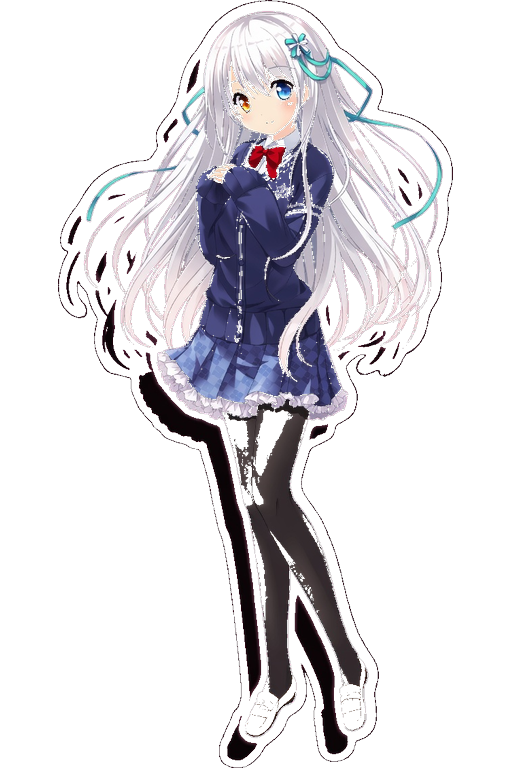
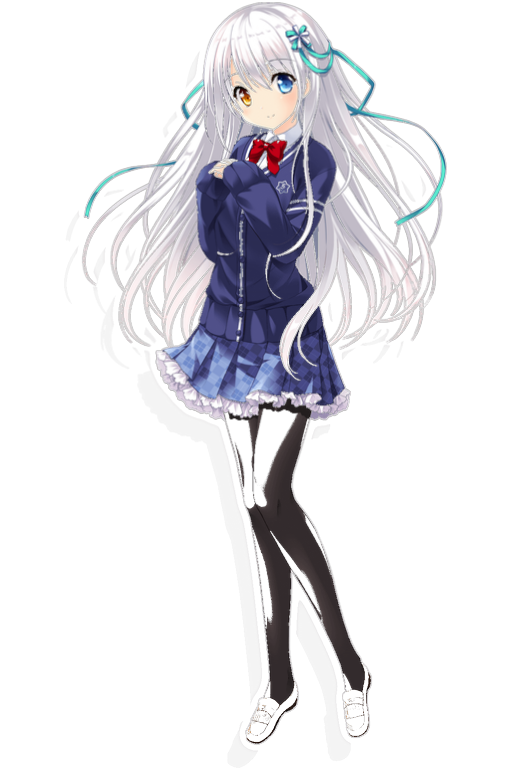
feat: Enhance idle and breathe standing frame animation sequences

Changed region(s): [[0.125, 0.0, 0.9062, 1.0]]

diff --git a/src/character/anim-manifest.js b/src/character/anim-manifest.js
@@ -1,4 +1,4 @@
-/** Auto-generated by scripts/build_animations.py — do not edit by hand */
+/** Auto-generated — idle/breathe via scripts/build_idle_stand.py */
 export const ANIM_MANIFEST = {
   "version": 1,
   "canvas": [
@@ -12,9 +12,13 @@ export const ANIM_MANIFEST = {
         "./assets/animations/idle/00.png",
         "./assets/animations/idle/01.png",
         "./assets/animations/idle/02.png",
-        "./assets/animations/idle/03.png"
+        "./assets/animations/idle/03.png",
+        "./assets/animations/idle/04.png",
+        "./assets/animations/idle/05.png",
+        "./assets/animations/idle/06.png",
+        "./assets/animations/idle/07.png"
       ],
-      "fps": 3,
+      "fps": 5,
       "loop": true,
       "duration": null,
       "holdLast": false
@@ -24,11 +28,13 @@ export const ANIM_MANIFEST = {
         "./assets/animations/breathe/00.png",
         "./assets/animations/breathe/01.png",
         "./assets/animations/breathe/02.png",
-        "./assets/animations/breathe/03.png"
+        "./assets/animations/breathe/03.png",
+        "./assets/animations/breathe/04.png",
+        "./assets/animations/breathe/05.png"
       ],
-      "fps": 2.5,
+      "fps": 4,
       "loop": true,
-      "duration": 3600,
+      "duration": 4500,
       "holdLast": false
     },
     "sway": {

diff --git a/scripts/build_idle_stand.py b/scripts/build_idle_stand.py
@@ -1,0 +1,288 @@
+"""
+Build anti-flicker default standing (idle) frame animation for Saya.
+
+Why procedural (not multi-source cutouts):
+  The previous idle mixed base / idle_peak / soft art with large silhouette
+  jumps (mean channel diff ~226). Hard-cut swaps then looked like flicker
+  and limb/hair pop (穿模).
+
+Approach:
+  - Single clean sprite at native size: assets/animations/default.png
+    (same scale/feet as other actions → no size pop when returning to idle)
+  - Continuous warp: feet locked, torso breathes, hair secondary sway
+  - Frame 0 is a bit-exact copy of default.png for seamless action→idle
+  - Integer harmonics only so last→first loop closes
+  - Writes idle/ + breathe/ and patches manifest + anim-manifest.js
+"""
+
+from __future__ import annotations
+
+import json
+import math
+import shutil
+from pathlib import Path
+
+import numpy as np
+from PIL import Image
+
+ROOT = Path(__file__).resolve().parents[1]
+OUT = ROOT / "assets" / "animations"
+DEFAULT = OUT / "default.png"
+CANVAS = (512, 768)
+
+# Subtle desktop-pet motion (px at full strength). Keep small to avoid
+# hair-tip clipping at canvas top and resampling sparkle on fine strands.
+BREATH_PX = 1.8
+SWAY_PX = 1.4
+HAIR_PX = 1.5
+
+
+def sample_bilinear(arr: np.ndarray, ys: np.ndarray, xs: np.ndarray) -> np.ndarray:
+    h, w = arr.shape[:2]
+    valid = (ys >= 0) & (ys <= h - 1) & (xs >= 0) & (xs <= w - 1)
+
+    y0 = np.floor(ys).astype(np.int32)
+    x0 = np.floor(xs).astype(np.int32)
+    y1 = y0 + 1
+    x1 = x0 + 1
+
+    y0c = np.clip(y0, 0, h - 1)
+    y1c = np.clip(y1, 0, h - 1)
+    x0c = np.clip(x0, 0, w - 1)
+    x1c = np.clip(x1, 0, w - 1)
+
+    wy = (ys - y0)[..., None]
+    wx = (xs - x0)[..., None]
+    w00 = (1 - wy) * (1 - wx)
+    w01 = (1 - wy) * wx
+    w10 = wy * (1 - wx)
+    w11 = wy * wx
+
+    out = (
+        arr[y0c, x0c] * w00
+        + arr[y0c, x1c] * w01
+        + arr[y1c, x0c] * w10
+        + arr[y1c, x1c] * w11
+    )
+    out[~valid] = 0
+    return out
+
+
+def content_bbox(arr: np.ndarray, thr: int = 10) -> tuple[int, int, int, int]:
+    a = arr[:, :, 3]
+    ys, xs = np.where(a > thr)
+    if len(xs) == 0:
+        h, w = a.shape
+        return 0, 0, w - 1, h - 1
+    return int(xs.min()), int(ys.min()), int(xs.max()), int(ys.max())
+
+
+def warp_stand(
+    arr: np.ndarray,
+    *,
+    breath: float,
+    sway: float,
+    hair: float,
+) -> np.ndarray:
+    """
+    breath: -1..1  + = inhale (shoulders rise, slight chest widen)
+    sway:   -1..1  lean shear from feet
+    hair:   -1..1  extra upper-strand drift
+    Feet stay planted.
+    """
+    h, w = arr.shape[:2]
+    x0, y0, x1, y1 = content_bbox(arr)
+    foot_y = float(y1)
+    cx = 0.5 * (x0 + x1)
+
+    yy, xx = np.mgrid[0:h, 0:w].astype(np.float64)
+    height = max(1.0, foot_y - y0)
+    t = np.clip((foot_y - yy) / height, 0.0, 1.2)
+
+    foot_lock = np.clip((t - 0.05) / 0.10, 0.0, 1.0)
+    torso = np.clip((t - 0.22) / 0.48, 0.0, 1.0)
+    torso = torso * torso
+    hair_w = np.clip((t - 0.55) / 0.40, 0.0, 1.0)
+    hair_w = hair_w * hair_w
+
+    # Vertical breathe. Base art's hair tips already touch y=0, so favor
+    # gentle lift; slight tip clip is preferable to asymmetric inhale/exhale.
+    dy = breath * BREATH_PX * torso * foot_lock
+
+    expand = breath * 0.006 * torso * foot_lock
+    src_x_body = cx + (xx - cx) / (1.0 + expand + 1e-6)
+
+    dx_sway = sway * SWAY_PX * t * foot_lock
+    dx_hair = hair * HAIR_PX * hair_w * foot_lock
+
+    src_x = src_x_body - dx_sway - dx_hair
+    src_y = yy + dy
+
+    out = sample_bilinear(arr, src_y, src_x)
+    out[out[:, :, 3] < 1.5] = 0
+    return out
+
+
+def to_png(arr: np.ndarray) -> Image.Image:
+    arr = np.clip(np.nan_to_num(arr, nan=0.0), 0, 255).astype(np.uint8)
+    return Image.fromarray(arr, "RGBA")
+
+
+def make_cycle(
+    base: np.ndarray,
+    n: int,
+    *,
+    breath_amp: float,
+    sway_amp: float,
+    hair_amp: float,
+) -> list[Image.Image]:
+    """
+    Seamless loop. Frame 0 is bit-exact base (all drives zero at θ=0).
+
+    Breath is *exhale-only* (always ≤ 0):
+      breath = amp * (cosθ - 1) / 2   →  0 → -amp → 0
+    The base sprite's hair already touches y=0; lifting on inhale would clip
+    tips and make the cycle lopsided. Settling the torso down then returning
+    reads as a calm breathe while feet stay planted.
+
+      sway ~ sinθ (+ tiny sin2θ)
+      hair ~ sin2θ   (secondary, period-closes)
+    """
+    frames: list[Image.Image] = []
+    for i in range(n):
+        if i == 0:
+            # Exact neutral — matches other actions' default stand
+            frames.append(to_png(base.copy()))
+            continue
+        ang = 2.0 * math.pi * i / n
+        # 0 at i=0 and i=n, peak exhale (-amp) at i=n/2
+        breath = breath_amp * (math.cos(ang) - 1.0) * 0.5
+        sway = sway_amp * (0.88 * math.sin(ang) + 0.12 * math.sin(2 * ang))
+        hair = hair_amp * math.sin(2.0 * ang)
+        frames.append(to_png(warp_stand(base, breath=breath, sway=sway, hair=hair)))
+    return frames
+
+
+def save_seq(name: str, frames: list[Image.Image]) -> list[str]:
+    d = OUT / name
+    if d.exists():
+        shutil.rmtree(d)
+    d.mkdir(parents=True, exist_ok=True)
+    paths: list[str] = []
+    for i, im in enumerate(frames):
+        p = d / f"{i:02d}.png"
+        im.save(p, "PNG", optimize=True)
+        paths.append(f"./assets/animations/{name}/{i:02d}.png")
+    print(f"  {name}: {len(frames)} frames → {d}")
+    return paths
+
+
+def patch_manifest(idle_paths: list[str], breathe_paths: list[str]) -> None:
+    man_path = OUT / "manifest.json"
+    data = json.loads(man_path.read_text(encoding="utf-8"))
+    data["actions"]["idle"] = {
+        "frames": idle_paths,
+        # 8 frames @ 5fps ≈ 1.6s/cycle — calm, readable breathing
+        "fps": 5,
+        "loop": True,
+        "duration": None,
+        "holdLast": False,
+    }
+    data["actions"]["breathe"] = {
+        "frames": breathe_paths,
+        "fps": 4,
+        "loop": True,
+        "duration": 4500,
+        "holdLast": False,
+    }
+    man_path.write_text(json.dumps(data, ensure_ascii=False, indent=2) + "\n", encoding="utf-8")
+
+    anim_js = ROOT / "src" / "character" / "anim-manifest.js"
+    lines = [
+        "/** Auto-generated — idle/breathe via scripts/build_idle_stand.py */",
+        "export const ANIM_MANIFEST = "
+        + json.dumps(data, ensure_ascii=False, indent=2)
+        + ";",
+        "",
+    ]
+    anim_js.write_text("\n".join(lines), encoding="utf-8")
+    print(f"  patched {man_path.relative_to(ROOT)}")
+    print(f"  patched {anim_js.relative_to(ROOT)}")
+
+
+def verify(frames: list[Image.Image], label: str, base_ref: np.ndarray) -> None:
+    print(f"  verify [{label}]:")
+    # frame0 must match default
+    f0 = np.array(frames[0], dtype=np.int16)
+    ref = base_ref.astype(np.int16)
+    if not np.array_equal(f0, ref):
+        d = np.abs(f0 - ref).sum(axis=2)
+        print(f"    ⚠ frame0 ≠ default (max channel-sum diff {d.max()})")
+    else:
+        print("    frame0 == default.png  ✓")
+
+    prev = None
+    first_arr = f0
+    for i, im in enumerate(frames):
+        arr = np.array(im, dtype=np.int16)
+        a = arr[:, :, 3]
+        ys, xs = np.where(a > 10)
+        bbox = (int(xs.min()), int(ys.min()), int(xs.max()), int(ys.max()))
+        if prev is None:
+            print(f"    [{i:02d}] bbox={bbox} opaque={(a > 10).sum()}")
+            prev = arr
+            continue
+        d = np.abs(arr - prev).sum(axis=2)
+        mask = (a > 10) | (prev[:, :, 3] > 10)
+        mean_d = float(d[mask].mean()) if mask.any() else 0.0
+        pys, pxs = np.where(prev[:, :, 3] > 10)
+        pb = (int(pxs.min()), int(pys.min()), int(pxs.max()), int(pys.max()))
+        bbox_shift = max(abs(bbox[j] - pb[j]) for j in range(4))
+        foot_shift = abs(bbox[3] - pb[3])
+        flag = " ⚠ FOOT" if foot_shift else ""
+        print(
+            f"    [{i:02d}] bbox={bbox} mean_diff={mean_d:.1f} "
+            f"bbox_shift={bbox_shift} foot_dy={foot_shift}{flag}"
+        )
+        prev = arr
+
+    last = np.array(frames[-1], dtype=np.int16)
+    d = np.abs(first_arr - last).sum(axis=2)
+    mask = (first_arr[:, :, 3] > 10) | (last[:, :, 3] > 10)
+    loop_d = float(d[mask].mean()) if mask.any() else 0.0
+    a1 = np.array(frames[1], dtype=np.int16)
+    d01 = np.abs(a1 - first_arr).sum(axis=2)
+    m01 = (a1[:, :, 3] > 10) | (first_arr[:, :, 3] > 10)
+    step01 = float(d01[m01].mean()) if m01.any() else 0.0
+    ratio = loop_d / step01 if step01 > 1e-6 else 0.0
+    ok = "OK" if ratio < 1.35 else "⚠ LOOP GAP"
+    print(f"    loop last→first={loop_d:.1f} vs 0→1={step01:.1f} ratio={ratio:.2f} {ok}")
+
+
+def main() -> None:
+    if not DEFAULT.exists():
+        raise SystemExit(f"missing base sprite: {DEFAULT}")
+
+    im = Image.open(DEFAULT).convert("RGBA")
+    if im.size != CANVAS:
+        raise SystemExit(f"default.png must be {CANVAS}, got {im.size}")
+    base = np.array(im, dtype=np.float32)
+    x0, y0, x1, y1 = content_bbox(base)
+    print(f"base bbox=({x0},{y0},{x1},{y1}) feet_y={y1}")
+
+    print("Building idle (default stand)…")
+    idle = make_cycle(base, 8, breath_amp=1.0, sway_amp=1.0, hair_amp=0.85)
+    verify(idle, "idle", base)
+    idle_paths = save_seq("idle", idle)
+
+    print("Building breathe (deeper stand breath)…")
+    breathe = make_cycle(base, 6, breath_amp=1.2, sway_amp=0.35, hair_amp=0.55)
+    verify(breathe, "breathe", base)
+    breathe_paths = save_seq("breathe", breathe)
+
+    patch_manifest(idle_paths, breathe_paths)
+    print("Done.")
+
+
+if __name__ == "__main__":
+    main()
